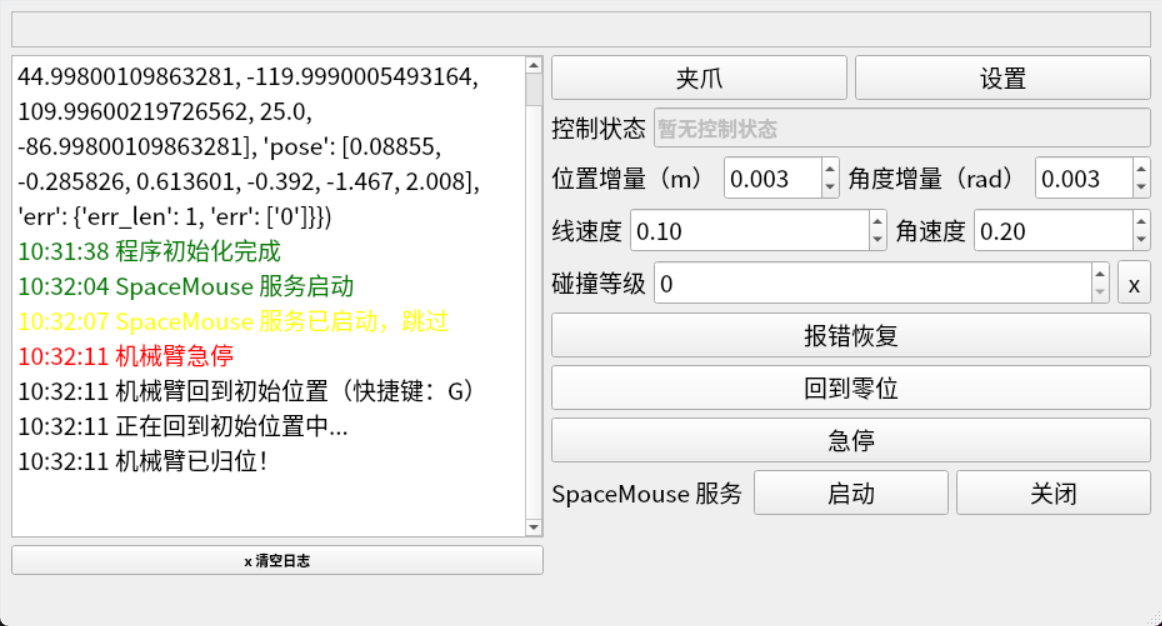
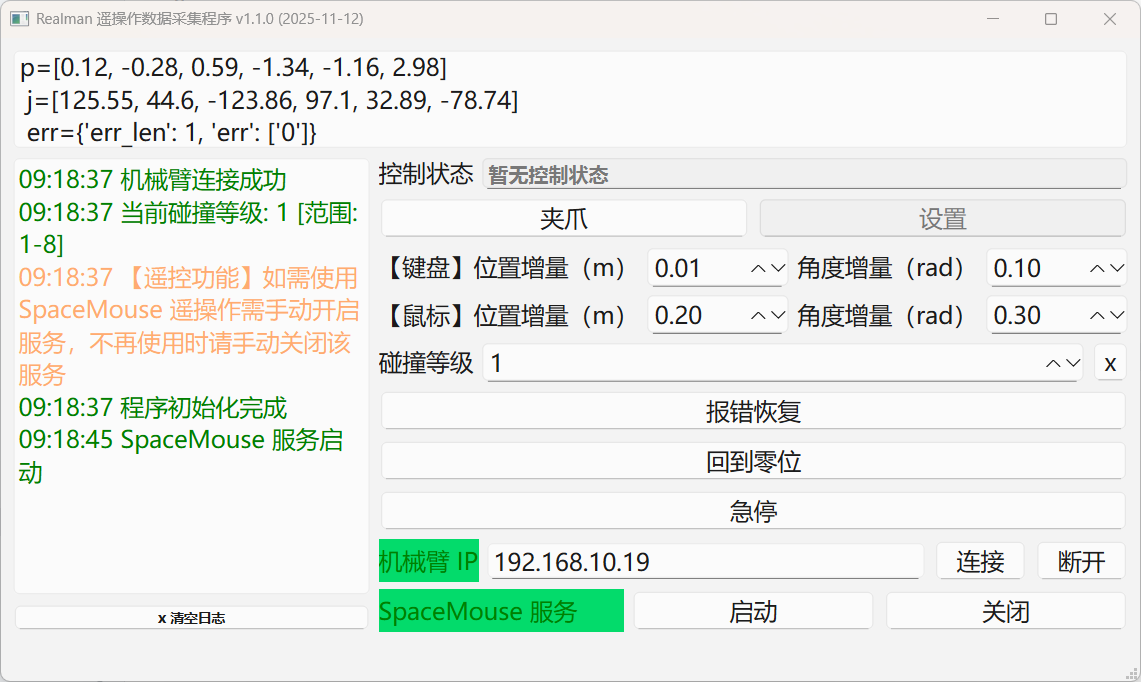
更新说明

diff --git a/app.py b/app.py
@@ -124,6 +124,10 @@ class MainWindow(qtbase.QApp):
             self.ui.label_arm.setStyleSheet("color: orange; background-color: #03db6b;")
 
     def arm_disconnect(self):
+        # 检查鼠标服务是否关闭
+        if self.is_spacemouse_running:
+             self.spacemouse_stop()
+        # 断开机械臂
         self.arm.is_connected = 0
         self.remove_timer("timer_update_msg")
         self.arm.disconnect()

diff --git a/__init__.py b/__init__.py
@@ -7,8 +7,8 @@ from toolbox.core.logbase import get_logger
 q_appcfg = qtbase.QAppConfig(
     name = "Realman 遥操作数据采集程序",
     name_en = "Realman Teleop",
-    date="2025-09-02",
-    version = "1.0.0",
+    date="2025-11-12",
+    version = "1.1.0",
     fontsize = 14,
     slot="realman_teleop",
     APPCFG_DICT=qtbase.get_appcfg(__file__),

diff --git a/README.md b/README.md
@@ -1,4 +1,13 @@
-# realman 遥操作
+# realman 机械臂遥操作
+
+> 已在 realman RM65B, RM63III 上测试通过。
+
+## 功能
+
+- [x] 支持键盘控制末端移动
+- [x] 支持 SpaceMouse 控制末端移动
+- [x] 支持 SpaceMouse 侧键自定义功能按键
+- [x] 支持末端移动速度控制
 
 ## 主界面
 
@@ -7,22 +16,12 @@
 ## 环境配置
 
 ```sh
-# 1、安装工具箱
-pip install ./robot_toolbox-*.tar.gz
+# 1、安装基础库
+pip install ./robot_toolbox-*.whl
 
 # 2、安装依赖
 pip install -r requirements.txt
 
 # 3、启动主程序
 python -m realman_teleop
-```
-
-## 问题
-
-## 安装 `pyaudio` 时报错
-
-`Python src/pyaudio/device_api.c:9:10: fatal error: portaudio.h: 没有那个文件或目录`，解决：
-
-```sh
-sudo apt-get install libasound-dev portaudio19-dev libportaudio2 libportaudiocpp0
 ```
